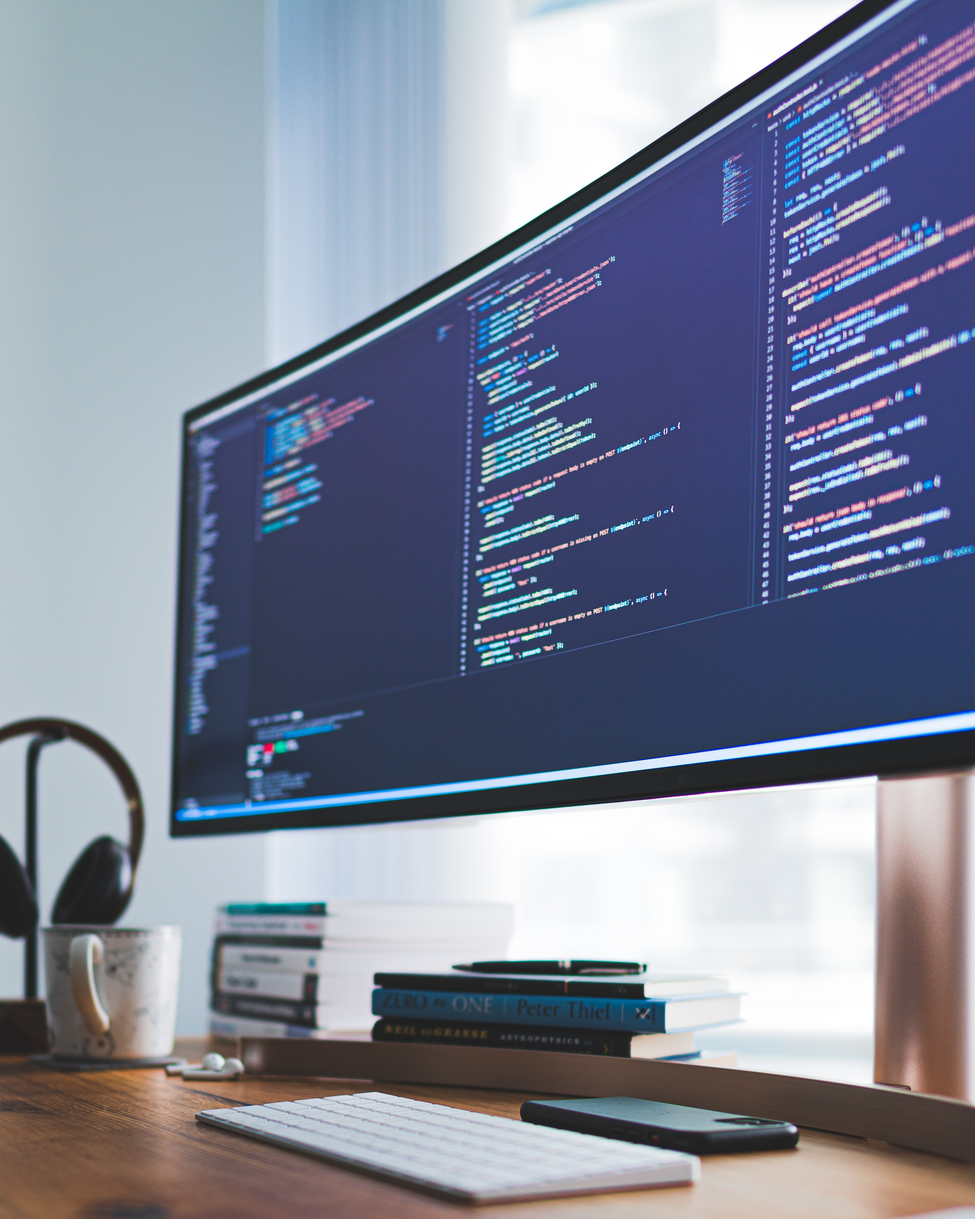
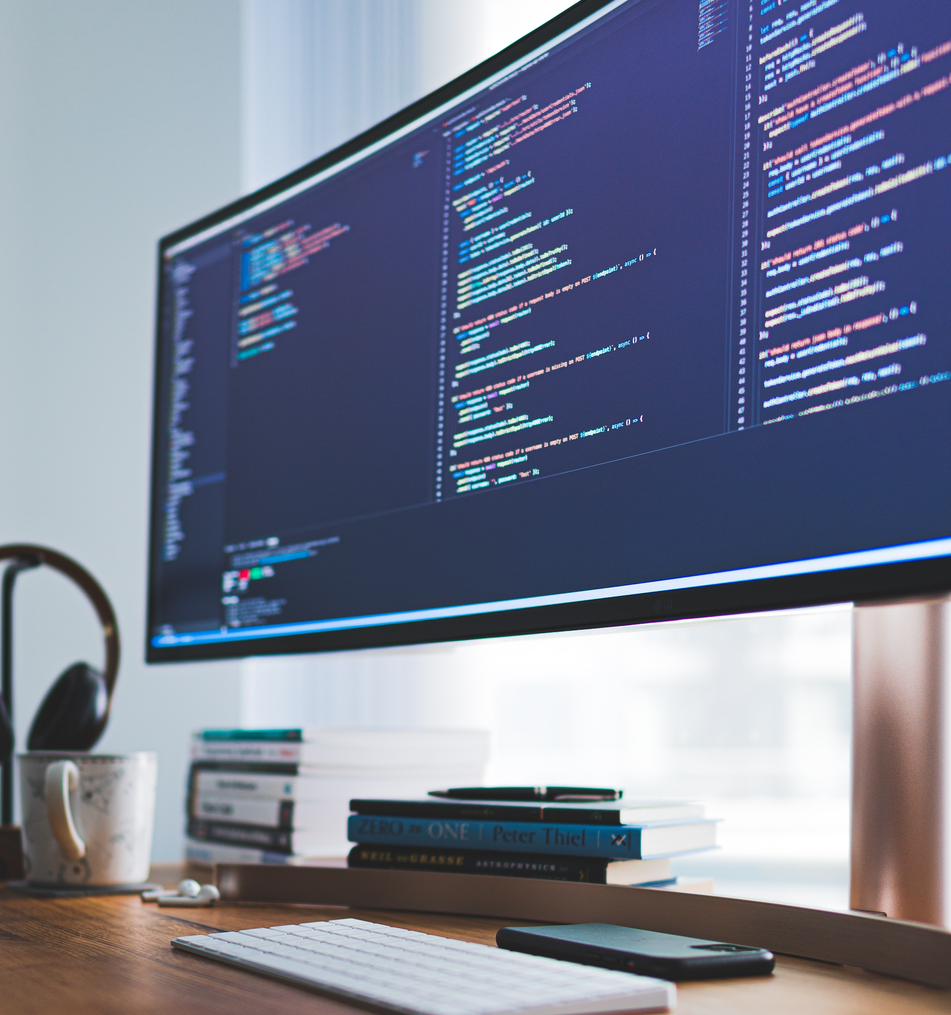
Added image to about section.

diff --git a/layouts/shortcodes/justify.html b/layouts/shortcodes/justify.html
@@ -1,0 +1,3 @@
+<div style="text-align: justify;">
+{{.Inner}}
+</div>

diff --git a/layouts/shortcodes/center.html b/layouts/shortcodes/center.html
@@ -1,0 +1,3 @@
+<div style="text-align: center;">
+{{.Inner}}
+</div>

diff --git a/layouts/shortcodes/column.html b/layouts/shortcodes/column.html
@@ -1,0 +1,1 @@
+<div class="col-md">{{ .Inner }}</div>

diff --git a/layouts/shortcodes/row.html b/layouts/shortcodes/row.html
@@ -1,0 +1,1 @@
+<div class="row">{{ .Inner }}</div>

diff --git a/content/home/about.md b/content/home/about.md
@@ -3,8 +3,20 @@ widget = "blank"
 headless = true
 active = true
 weight = 20
-title = "About"
+title = "About Us"
+# Section design
+[design]
+  # Use a 1-column layout
+  columns=2
 +++
+
+{{< row >}}
+{{< column >}}
+{{% justify %}}
 DataLab is the data laboratory at UFPB. We are a team of data science, statistics, machine learning and artificial intelligence specialists which perform research, consulting, training and supervising activities. Our main goal is to solve problems in a data-driven way, to create robust and scalable solutions. Companies in any sector, such as, banks, telecommunications, health, education, energy, industry, public agencies and agribusiness can benefit from our services. Do you have data? We can turn it into knowledge.
-
-
+{{% /justify %}}
+{{< /column>}}
+{{< column >}}
+{{< figure src="img/first_image.jpg" title="" >}}
+{{< /column >}}
+{{< /row >}}
